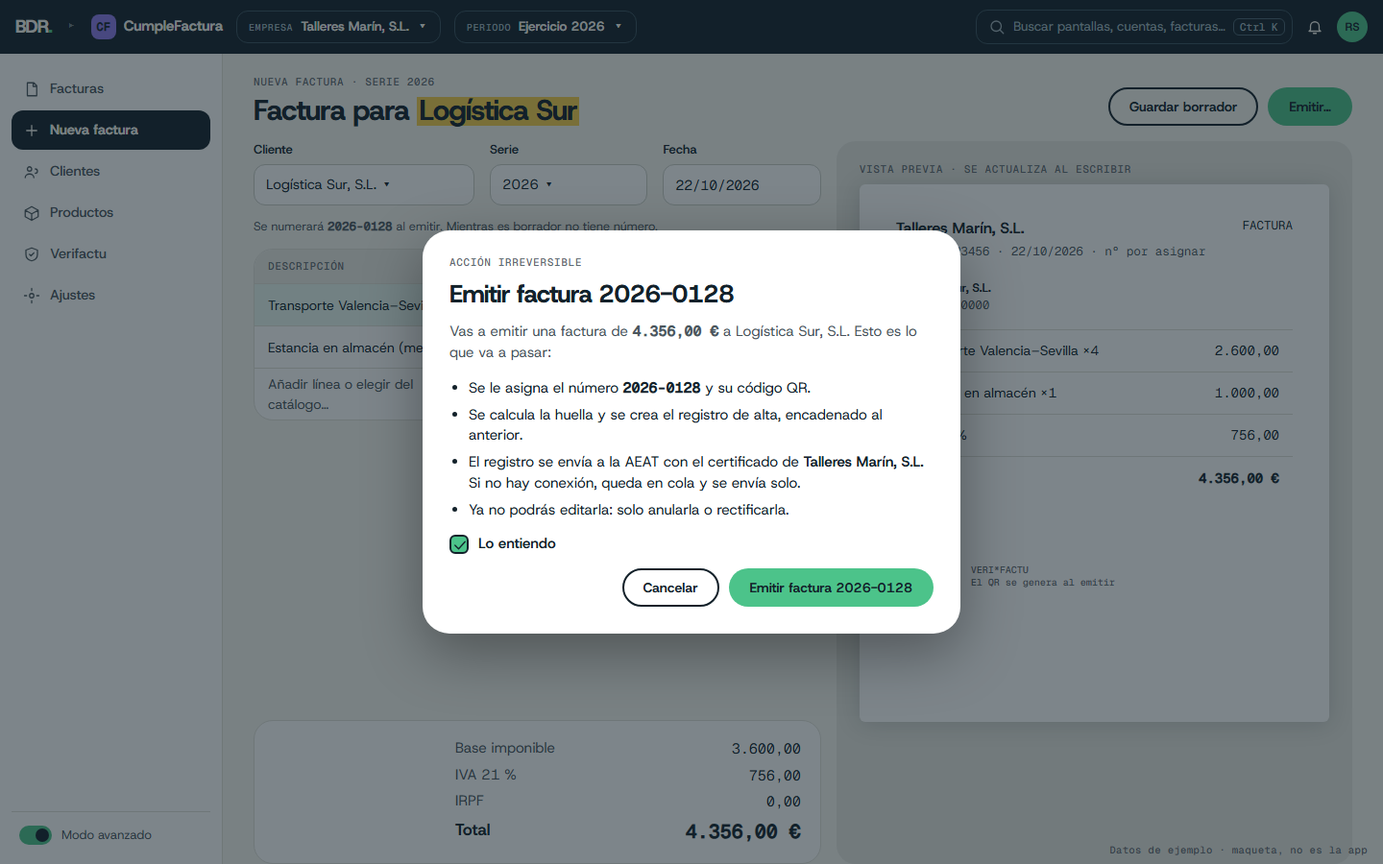
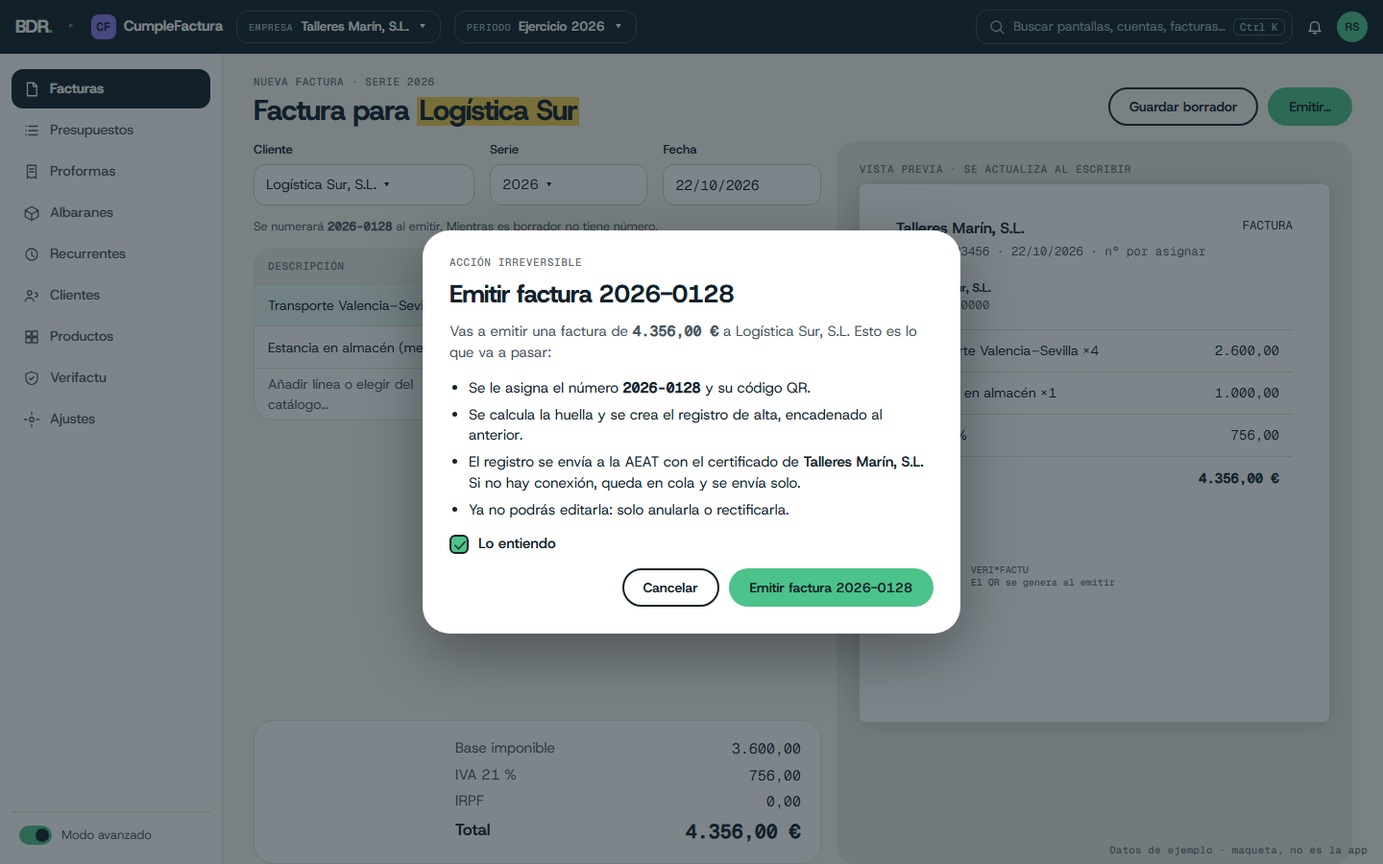
docs: segunda ronda de decisiones (nombres, representación, ahorro, offline y documentos comerciales)

diff --git a/docs/mockups/cumplefactura-6-sin-conexion.html b/docs/mockups/cumplefactura-6-sin-conexion.html
@@ -1,0 +1,27 @@
+<!doctype html><html lang="es" ><head><meta charset="utf-8"><title>CumpleFactura · Emisión sin conexión</title>
+<meta name="viewport" content="width=1440"><link rel="stylesheet" href="_assets/app.css">
+<style>:root{--producto:var(--violeta);--on-producto:var(--pizarra)}</style></head><body>
+<div class="app" style="position:relative">
+<header class="top"><span class="logo">BDR<i>.</i></span><span class="sep">▸</span><span class="appname"><span class="appico">CF</span>CumpleFactura</span>
+<span class="sel"><small>Empresa</small><b>Talleres Marín, S.L.</b> ▾</span><span class="sel"><small>Periodo</small><b>Ejercicio 2026</b> ▾</span>
+<span class="search"><svg class="i" viewBox="0 0 24 24"><path d="M11 4a7 7 0 100 14 7 7 0 000-14z M16 16l5 5"/></svg>Buscar pantallas, cuentas, facturas…<kbd>Ctrl K</kbd></span><svg class="i" viewBox="0 0 24 24"><path d="M6 16V11a6 6 0 0112 0v5l2 2H4z M10 21h4"/></svg><span class="acct">RS</span></header>
+<nav class="side"><div class="nav "><svg class="i" viewBox="0 0 24 24"><path d="M6 3h9l4 4v14H6z M14 3v5h5"/></svg><span>Facturas</span></div><div class="nav "><svg class="i" viewBox="0 0 24 24"><path d="M8 6h12 M8 12h12 M8 18h12 M4 6h.5 M4 12h.5 M4 18h.5"/></svg><span>Presupuestos</span></div><div class="nav "><svg class="i" viewBox="0 0 24 24"><path d="M6 3h12v18l-3-2-3 2-3-2-3 2z M9 8h6 M9 12h6"/></svg><span>Proformas</span></div><div class="nav "><svg class="i" viewBox="0 0 24 24"><path d="M3 8l9-5 9 5v9l-9 5-9-5z M3 8l9 5 9-5 M12 13v9"/></svg><span>Albaranes</span></div><div class="nav "><svg class="i" viewBox="0 0 24 24"><path d="M12 4a8 8 0 100 16 8 8 0 000-16z M12 8v5l3 2"/></svg><span>Recurrentes</span></div><div class="nav "><svg class="i" viewBox="0 0 24 24"><path d="M9 11a3 3 0 100-6 3 3 0 000 6z M3 20c0-3 3-5 6-5s6 2 6 5 M17 8a3 3 0 010 6"/></svg><span>Clientes</span></div><div class="nav "><svg class="i" viewBox="0 0 24 24"><path d="M4 4h7v7H4z M13 4h7v7h-7z M4 13h7v7H4z M13 13h7v7h-7z"/></svg><span>Productos</span></div><div class="nav "><svg class="i" viewBox="0 0 24 24"><path d="M12 3l8 3v6c0 5-4 8-8 9-4-1-8-4-8-9V6z M9 12l2 2 4-4"/></svg><span>Verifactu</span></div><div class="nav on"><svg class="i" viewBox="0 0 24 24"><path d="M12 9a3 3 0 100 6 3 3 0 000-6z M12 2v3 M12 19v3 M2 12h3 M19 12h3"/></svg><span>Ajustes</span></div><div class="gap"></div><div class="mode"><span class="sw on"></span>Modo avanzado</div></nav>
+<main class="main">
+<div class="head"><div><div class="lbl">Ajustes · Emisión sin conexión</div><h1 style="margin-top:8px">Quién factura <span class="hl">sin conexión</span></h1></div>
+<div class="act"><span class="btn s ">Cancelar</span><span class="btn p ">Guardar reglas</span></div></div>
+<div class="callout info"><svg class="i" viewBox="0 0 24 24"><path d="M12 4a8 8 0 100 16 8 8 0 000-16z M12 11v5 M12 8v.5"/></svg><div>Sin conexión solo puede emitir <b>una persona</b>, con una serie propia. Así no se repiten números aunque otras personas trabajen a la vez. El resto puede preparar borradores y emitirlos al volver la conexión.</div></div>
+<div class="grid" style="grid-template-columns:minmax(0,1.1fr) minmax(0,1fr);align-items:start">
+ <div class="card flat"><div style="padding:14px 18px"><h2>Personas</h2></div><table><thead><tr><th>Usuario</th><th>Sin conexión puede</th><th>Estado</th></tr></thead><tbody>
+ <tr><td><b>Ana López</b><br><span class="hint">Portátil de oficina</span></td><td>Emitir en serie <span class="mono">SC-2026</span></td><td><span class="chip ok">Autorizada</span></td></tr>
+ <tr><td><b>Ricardo Saiz</b><br><span class="hint">Escritorio y web</span></td><td>Solo borradores</td><td><span class="chip bo">Sin permiso</span></td></tr>
+ <tr><td><b>Lucía Pérez</b><br><span class="hint">Web</span></td><td>Solo borradores</td><td><span class="chip bo">Sin permiso</span></td></tr></tbody></table></div>
+ <div class="card"><h2 style="margin-bottom:6px">Reglas</h2>
+  <div style="display:flex;gap:12px;padding:11px 0;border-top:1px solid var(--line)"><span style="flex:1">Serie exclusiva sin conexión</span><b class="mono">SC-2026</b></div>
+  <div style="display:flex;gap:12px;padding:11px 0;border-top:1px solid var(--line)"><span style="flex:1">Máximo sin sincronizar</span><b class="mono">72 h · 50 facturas</b></div>
+  <div style="display:flex;gap:12px;padding:11px 0;border-top:1px solid var(--line)"><span style="flex:1">Importe máximo por factura</span><b class="mono">5.000,00 €</b></div>
+  <div style="display:flex;gap:12px;padding:11px 0;border-top:1px solid var(--line)"><span style="flex:1">Rectificativas y anulaciones sin conexión</span><b class="mono">No</b></div>
+  <div style="display:flex;gap:12px;padding:11px 0;border-top:1px solid var(--line)"><span style="flex:1">Facturas recurrentes sin conexión</span><b class="mono">No: quedan pendientes</b></div>
+  <p class="hint" style="margin:12px 0 0">Al volver la conexión: se sincroniza, se envía a la AEAT en orden y el resto del equipo ve las facturas.</p></div>
+</div>
+<div class="callout warn"><svg class="i" viewBox="0 0 24 24"><path d="M12 4a8 8 0 100 16 8 8 0 000-16z M12 11v5 M12 8v.5"/></svg><div><b>Facturas recurrentes.</b> Se generan una sola vez por periodo y cliente, solo con conexión. Si el día toca sin conexión, queda como borrador pendiente; nunca se crean dos.</div></div></main>
+<div class="foot">Datos de ejemplo · maqueta, no es la app</div></div></body></html>

diff --git a/docs/mockups/cumplefactura-1-facturas.html b/docs/mockups/cumplefactura-1-facturas.html
@@ -5,7 +5,7 @@
 <header class="top"><span class="logo">BDR<i>.</i></span><span class="sep">▸</span><span class="appname"><span class="appico">CF</span>CumpleFactura</span>
 <span class="sel"><small>Empresa</small><b>Talleres Marín, S.L.</b> ▾</span><span class="sel"><small>Periodo</small><b>Ejercicio 2026</b> ▾</span>
 <span class="search"><svg class="i" viewBox="0 0 24 24"><path d="M11 4a7 7 0 100 14 7 7 0 000-14z M16 16l5 5"/></svg>Buscar pantallas, cuentas, facturas…<kbd>Ctrl K</kbd></span><svg class="i" viewBox="0 0 24 24"><path d="M6 16V11a6 6 0 0112 0v5l2 2H4z M10 21h4"/></svg><span class="acct">RS</span></header>
-<nav class="side"><div class="nav on"><svg class="i" viewBox="0 0 24 24"><path d="M6 3h9l4 4v14H6z M14 3v5h5"/></svg><span>Facturas</span></div><div class="nav "><svg class="i" viewBox="0 0 24 24"><path d="M12 5v14 M5 12h14"/></svg><span>Nueva factura</span></div><div class="nav "><svg class="i" viewBox="0 0 24 24"><path d="M9 11a3 3 0 100-6 3 3 0 000 6z M3 20c0-3 3-5 6-5s6 2 6 5 M17 8a3 3 0 010 6"/></svg><span>Clientes</span></div><div class="nav "><svg class="i" viewBox="0 0 24 24"><path d="M3 8l9-5 9 5v9l-9 5-9-5z M3 8l9 5 9-5 M12 13v9"/></svg><span>Productos</span></div><div class="nav "><svg class="i" viewBox="0 0 24 24"><path d="M12 3l8 3v6c0 5-4 8-8 9-4-1-8-4-8-9V6z M9 12l2 2 4-4"/></svg><span>Verifactu</span><span class="b">1</span></div><div class="nav "><svg class="i" viewBox="0 0 24 24"><path d="M12 9a3 3 0 100 6 3 3 0 000-6z M12 2v3 M12 19v3 M2 12h3 M19 12h3"/></svg><span>Ajustes</span></div><div class="gap"></div><div class="mode"><span class="sw on"></span>Modo avanzado</div></nav>
+<nav class="side"><div class="nav on"><svg class="i" viewBox="0 0 24 24"><path d="M6 3h9l4 4v14H6z M14 3v5h5"/></svg><span>Facturas</span></div><div class="nav "><svg class="i" viewBox="0 0 24 24"><path d="M8 6h12 M8 12h12 M8 18h12 M4 6h.5 M4 12h.5 M4 18h.5"/></svg><span>Presupuestos</span></div><div class="nav "><svg class="i" viewBox="0 0 24 24"><path d="M6 3h12v18l-3-2-3 2-3-2-3 2z M9 8h6 M9 12h6"/></svg><span>Proformas</span></div><div class="nav "><svg class="i" viewBox="0 0 24 24"><path d="M3 8l9-5 9 5v9l-9 5-9-5z M3 8l9 5 9-5 M12 13v9"/></svg><span>Albaranes</span></div><div class="nav "><svg class="i" viewBox="0 0 24 24"><path d="M12 4a8 8 0 100 16 8 8 0 000-16z M12 8v5l3 2"/></svg><span>Recurrentes</span></div><div class="nav "><svg class="i" viewBox="0 0 24 24"><path d="M9 11a3 3 0 100-6 3 3 0 000 6z M3 20c0-3 3-5 6-5s6 2 6 5 M17 8a3 3 0 010 6"/></svg><span>Clientes</span></div><div class="nav "><svg class="i" viewBox="0 0 24 24"><path d="M4 4h7v7H4z M13 4h7v7h-7z M4 13h7v7H4z M13 13h7v7h-7z"/></svg><span>Productos</span></div><div class="nav "><svg class="i" viewBox="0 0 24 24"><path d="M12 3l8 3v6c0 5-4 8-8 9-4-1-8-4-8-9V6z M9 12l2 2 4-4"/></svg><span>Verifactu</span><span class="b">1</span></div><div class="nav "><svg class="i" viewBox="0 0 24 24"><path d="M12 9a3 3 0 100 6 3 3 0 000-6z M12 2v3 M12 19v3 M2 12h3 M19 12h3"/></svg><span>Ajustes</span></div><div class="gap"></div><div class="mode"><span class="sw on"></span>Modo avanzado</div></nav>
 <main class="main">
 <div class="head"><div><div class="lbl">Facturas · 2026</div><h1 style="margin-top:8px">Tus <span class="hl">facturas</span></h1></div>
 <div class="act"><span class="chip av">Sin conexión · 1 en cola</span><span class="btn s ">Exportar</span><span class="btn p "><svg class="i" viewBox="0 0 24 24"><path d="M12 5v14 M5 12h14"/></svg> Nueva factura</span></div></div>

diff --git a/docs/mockups/cumplefactura-4-verifactu.html b/docs/mockups/cumplefactura-4-verifactu.html
@@ -5,7 +5,7 @@
 <header class="top"><span class="logo">BDR<i>.</i></span><span class="sep">▸</span><span class="appname"><span class="appico">CF</span>CumpleFactura</span>
 <span class="sel"><small>Empresa</small><b>Talleres Marín, S.L.</b> ▾</span><span class="sel"><small>Periodo</small><b>Ejercicio 2026</b> ▾</span>
 <span class="search"><svg class="i" viewBox="0 0 24 24"><path d="M11 4a7 7 0 100 14 7 7 0 000-14z M16 16l5 5"/></svg>Buscar pantallas, cuentas, facturas…<kbd>Ctrl K</kbd></span><svg class="i" viewBox="0 0 24 24"><path d="M6 16V11a6 6 0 0112 0v5l2 2H4z M10 21h4"/></svg><span class="acct">RS</span></header>
-<nav class="side"><div class="nav "><svg class="i" viewBox="0 0 24 24"><path d="M6 3h9l4 4v14H6z M14 3v5h5"/></svg><span>Facturas</span></div><div class="nav "><svg class="i" viewBox="0 0 24 24"><path d="M12 5v14 M5 12h14"/></svg><span>Nueva factura</span></div><div class="nav "><svg class="i" viewBox="0 0 24 24"><path d="M9 11a3 3 0 100-6 3 3 0 000 6z M3 20c0-3 3-5 6-5s6 2 6 5 M17 8a3 3 0 010 6"/></svg><span>Clientes</span></div><div class="nav "><svg class="i" viewBox="0 0 24 24"><path d="M3 8l9-5 9 5v9l-9 5-9-5z M3 8l9 5 9-5 M12 13v9"/></svg><span>Productos</span></div><div class="nav on"><svg class="i" viewBox="0 0 24 24"><path d="M12 3l8 3v6c0 5-4 8-8 9-4-1-8-4-8-9V6z M9 12l2 2 4-4"/></svg><span>Verifactu</span></div><div class="nav "><svg class="i" viewBox="0 0 24 24"><path d="M12 9a3 3 0 100 6 3 3 0 000-6z M12 2v3 M12 19v3 M2 12h3 M19 12h3"/></svg><span>Ajustes</span></div><div class="gap"></div><div class="mode"><span class="sw on"></span>Modo avanzado</div></nav>
+<nav class="side"><div class="nav "><svg class="i" viewBox="0 0 24 24"><path d="M6 3h9l4 4v14H6z M14 3v5h5"/></svg><span>Facturas</span></div><div class="nav "><svg class="i" viewBox="0 0 24 24"><path d="M8 6h12 M8 12h12 M8 18h12 M4 6h.5 M4 12h.5 M4 18h.5"/></svg><span>Presupuestos</span></div><div class="nav "><svg class="i" viewBox="0 0 24 24"><path d="M6 3h12v18l-3-2-3 2-3-2-3 2z M9 8h6 M9 12h6"/></svg><span>Proformas</span></div><div class="nav "><svg class="i" viewBox="0 0 24 24"><path d="M3 8l9-5 9 5v9l-9 5-9-5z M3 8l9 5 9-5 M12 13v9"/></svg><span>Albaranes</span></div><div class="nav "><svg class="i" viewBox="0 0 24 24"><path d="M12 4a8 8 0 100 16 8 8 0 000-16z M12 8v5l3 2"/></svg><span>Recurrentes</span></div><div class="nav "><svg class="i" viewBox="0 0 24 24"><path d="M9 11a3 3 0 100-6 3 3 0 000 6z M3 20c0-3 3-5 6-5s6 2 6 5 M17 8a3 3 0 010 6"/></svg><span>Clientes</span></div><div class="nav "><svg class="i" viewBox="0 0 24 24"><path d="M4 4h7v7H4z M13 4h7v7h-7z M4 13h7v7H4z M13 13h7v7h-7z"/></svg><span>Productos</span></div><div class="nav on"><svg class="i" viewBox="0 0 24 24"><path d="M12 3l8 3v6c0 5-4 8-8 9-4-1-8-4-8-9V6z M9 12l2 2 4-4"/></svg><span>Verifactu</span></div><div class="nav "><svg class="i" viewBox="0 0 24 24"><path d="M12 9a3 3 0 100 6 3 3 0 000-6z M12 2v3 M12 19v3 M2 12h3 M19 12h3"/></svg><span>Ajustes</span></div><div class="gap"></div><div class="mode"><span class="sw on"></span>Modo avanzado</div></nav>
 <main class="main">
 <div class="head"><div><div class="lbl">Verifactu · Talleres Marín, S.L. · modo VERI*FACTU</div><h1 style="margin-top:8px">Estado <span class="hl">fiscal</span></h1></div>
 <div class="act"><span class="btn s ">Comprobar integridad</span><span class="btn d ">Reintentar ahora (1)</span></div></div>

diff --git a/docs/mockups/cumplefactura-5-verifactu-oscuro.html b/docs/mockups/cumplefactura-5-verifactu-oscuro.html
@@ -5,7 +5,7 @@
 <header class="top"><span class="logo">BDR<i>.</i></span><span class="sep">▸</span><span class="appname"><span class="appico">CF</span>CumpleFactura</span>
 <span class="sel"><small>Empresa</small><b>Talleres Marín, S.L.</b> ▾</span><span class="sel"><small>Periodo</small><b>Ejercicio 2026</b> ▾</span>
 <span class="search"><svg class="i" viewBox="0 0 24 24"><path d="M11 4a7 7 0 100 14 7 7 0 000-14z M16 16l5 5"/></svg>Buscar pantallas, cuentas, facturas…<kbd>Ctrl K</kbd></span><svg class="i" viewBox="0 0 24 24"><path d="M6 16V11a6 6 0 0112 0v5l2 2H4z M10 21h4"/></svg><span class="acct">RS</span></header>
-<nav class="side"><div class="nav "><svg class="i" viewBox="0 0 24 24"><path d="M6 3h9l4 4v14H6z M14 3v5h5"/></svg><span>Facturas</span></div><div class="nav "><svg class="i" viewBox="0 0 24 24"><path d="M12 5v14 M5 12h14"/></svg><span>Nueva factura</span></div><div class="nav "><svg class="i" viewBox="0 0 24 24"><path d="M9 11a3 3 0 100-6 3 3 0 000 6z M3 20c0-3 3-5 6-5s6 2 6 5 M17 8a3 3 0 010 6"/></svg><span>Clientes</span></div><div class="nav "><svg class="i" viewBox="0 0 24 24"><path d="M3 8l9-5 9 5v9l-9 5-9-5z M3 8l9 5 9-5 M12 13v9"/></svg><span>Productos</span></div><div class="nav on"><svg class="i" viewBox="0 0 24 24"><path d="M12 3l8 3v6c0 5-4 8-8 9-4-1-8-4-8-9V6z M9 12l2 2 4-4"/></svg><span>Verifactu</span></div><div class="nav "><svg class="i" viewBox="0 0 24 24"><path d="M12 9a3 3 0 100 6 3 3 0 000-6z M12 2v3 M12 19v3 M2 12h3 M19 12h3"/></svg><span>Ajustes</span></div><div class="gap"></div><div class="mode"><span class="sw on"></span>Modo avanzado</div></nav>
+<nav class="side"><div class="nav "><svg class="i" viewBox="0 0 24 24"><path d="M6 3h9l4 4v14H6z M14 3v5h5"/></svg><span>Facturas</span></div><div class="nav "><svg class="i" viewBox="0 0 24 24"><path d="M8 6h12 M8 12h12 M8 18h12 M4 6h.5 M4 12h.5 M4 18h.5"/></svg><span>Presupuestos</span></div><div class="nav "><svg class="i" viewBox="0 0 24 24"><path d="M6 3h12v18l-3-2-3 2-3-2-3 2z M9 8h6 M9 12h6"/></svg><span>Proformas</span></div><div class="nav "><svg class="i" viewBox="0 0 24 24"><path d="M3 8l9-5 9 5v9l-9 5-9-5z M3 8l9 5 9-5 M12 13v9"/></svg><span>Albaranes</span></div><div class="nav "><svg class="i" viewBox="0 0 24 24"><path d="M12 4a8 8 0 100 16 8 8 0 000-16z M12 8v5l3 2"/></svg><span>Recurrentes</span></div><div class="nav "><svg class="i" viewBox="0 0 24 24"><path d="M9 11a3 3 0 100-6 3 3 0 000 6z M3 20c0-3 3-5 6-5s6 2 6 5 M17 8a3 3 0 010 6"/></svg><span>Clientes</span></div><div class="nav "><svg class="i" viewBox="0 0 24 24"><path d="M4 4h7v7H4z M13 4h7v7h-7z M4 13h7v7H4z M13 13h7v7h-7z"/></svg><span>Productos</span></div><div class="nav on"><svg class="i" viewBox="0 0 24 24"><path d="M12 3l8 3v6c0 5-4 8-8 9-4-1-8-4-8-9V6z M9 12l2 2 4-4"/></svg><span>Verifactu</span></div><div class="nav "><svg class="i" viewBox="0 0 24 24"><path d="M12 9a3 3 0 100 6 3 3 0 000-6z M12 2v3 M12 19v3 M2 12h3 M19 12h3"/></svg><span>Ajustes</span></div><div class="gap"></div><div class="mode"><span class="sw on"></span>Modo avanzado</div></nav>
 <main class="main">
 <div class="head"><div><div class="lbl">Verifactu · Talleres Marín, S.L. · modo VERI*FACTU</div><h1 style="margin-top:8px">Estado <span class="hl">fiscal</span></h1></div>
 <div class="act"><span class="btn s ">Comprobar integridad</span><span class="btn d ">Reintentar ahora (1)</span></div></div>

diff --git a/docs/mockups/cumplefactura-2-editor.html b/docs/mockups/cumplefactura-2-editor.html
@@ -5,7 +5,7 @@
 <header class="top"><span class="logo">BDR<i>.</i></span><span class="sep">▸</span><span class="appname"><span class="appico">CF</span>CumpleFactura</span>
 <span class="sel"><small>Empresa</small><b>Talleres Marín, S.L.</b> ▾</span><span class="sel"><small>Periodo</small><b>Ejercicio 2026</b> ▾</span>
 <span class="search"><svg class="i" viewBox="0 0 24 24"><path d="M11 4a7 7 0 100 14 7 7 0 000-14z M16 16l5 5"/></svg>Buscar pantallas, cuentas, facturas…<kbd>Ctrl K</kbd></span><svg class="i" viewBox="0 0 24 24"><path d="M6 16V11a6 6 0 0112 0v5l2 2H4z M10 21h4"/></svg><span class="acct">RS</span></header>
-<nav class="side"><div class="nav "><svg class="i" viewBox="0 0 24 24"><path d="M6 3h9l4 4v14H6z M14 3v5h5"/></svg><span>Facturas</span></div><div class="nav on"><svg class="i" viewBox="0 0 24 24"><path d="M12 5v14 M5 12h14"/></svg><span>Nueva factura</span></div><div class="nav "><svg class="i" viewBox="0 0 24 24"><path d="M9 11a3 3 0 100-6 3 3 0 000 6z M3 20c0-3 3-5 6-5s6 2 6 5 M17 8a3 3 0 010 6"/></svg><span>Clientes</span></div><div class="nav "><svg class="i" viewBox="0 0 24 24"><path d="M3 8l9-5 9 5v9l-9 5-9-5z M3 8l9 5 9-5 M12 13v9"/></svg><span>Productos</span></div><div class="nav "><svg class="i" viewBox="0 0 24 24"><path d="M12 3l8 3v6c0 5-4 8-8 9-4-1-8-4-8-9V6z M9 12l2 2 4-4"/></svg><span>Verifactu</span></div><div class="nav "><svg class="i" viewBox="0 0 24 24"><path d="M12 9a3 3 0 100 6 3 3 0 000-6z M12 2v3 M12 19v3 M2 12h3 M19 12h3"/></svg><span>Ajustes</span></div><div class="gap"></div><div class="mode"><span class="sw on"></span>Modo avanzado</div></nav>
+<nav class="side"><div class="nav on"><svg class="i" viewBox="0 0 24 24"><path d="M6 3h9l4 4v14H6z M14 3v5h5"/></svg><span>Facturas</span></div><div class="nav "><svg class="i" viewBox="0 0 24 24"><path d="M8 6h12 M8 12h12 M8 18h12 M4 6h.5 M4 12h.5 M4 18h.5"/></svg><span>Presupuestos</span></div><div class="nav "><svg class="i" viewBox="0 0 24 24"><path d="M6 3h12v18l-3-2-3 2-3-2-3 2z M9 8h6 M9 12h6"/></svg><span>Proformas</span></div><div class="nav "><svg class="i" viewBox="0 0 24 24"><path d="M3 8l9-5 9 5v9l-9 5-9-5z M3 8l9 5 9-5 M12 13v9"/></svg><span>Albaranes</span></div><div class="nav "><svg class="i" viewBox="0 0 24 24"><path d="M12 4a8 8 0 100 16 8 8 0 000-16z M12 8v5l3 2"/></svg><span>Recurrentes</span></div><div class="nav "><svg class="i" viewBox="0 0 24 24"><path d="M9 11a3 3 0 100-6 3 3 0 000 6z M3 20c0-3 3-5 6-5s6 2 6 5 M17 8a3 3 0 010 6"/></svg><span>Clientes</span></div><div class="nav "><svg class="i" viewBox="0 0 24 24"><path d="M4 4h7v7H4z M13 4h7v7h-7z M4 13h7v7H4z M13 13h7v7h-7z"/></svg><span>Productos</span></div><div class="nav "><svg class="i" viewBox="0 0 24 24"><path d="M12 3l8 3v6c0 5-4 8-8 9-4-1-8-4-8-9V6z M9 12l2 2 4-4"/></svg><span>Verifactu</span></div><div class="nav "><svg class="i" viewBox="0 0 24 24"><path d="M12 9a3 3 0 100 6 3 3 0 000-6z M12 2v3 M12 19v3 M2 12h3 M19 12h3"/></svg><span>Ajustes</span></div><div class="gap"></div><div class="mode"><span class="sw on"></span>Modo avanzado</div></nav>
 <main class="main">
 <div class="head"><div><div class="lbl">Nueva factura · serie 2026</div><h1 style="margin-top:8px">Factura para <span class="hl">Logística Sur</span></h1></div>
 <div class="act"><span class="btn s ">Guardar borrador</span><span class="btn p ">Emitir…</span></div></div>

diff --git a/docs/mockups/cumplefactura-3-emitir.html b/docs/mockups/cumplefactura-3-emitir.html
@@ -5,7 +5,7 @@
 <header class="top"><span class="logo">BDR<i>.</i></span><span class="sep">▸</span><span class="appname"><span class="appico">CF</span>CumpleFactura</span>
 <span class="sel"><small>Empresa</small><b>Talleres Marín, S.L.</b> ▾</span><span class="sel"><small>Periodo</small><b>Ejercicio 2026</b> ▾</span>
 <span class="search"><svg class="i" viewBox="0 0 24 24"><path d="M11 4a7 7 0 100 14 7 7 0 000-14z M16 16l5 5"/></svg>Buscar pantallas, cuentas, facturas…<kbd>Ctrl K</kbd></span><svg class="i" viewBox="0 0 24 24"><path d="M6 16V11a6 6 0 0112 0v5l2 2H4z M10 21h4"/></svg><span class="acct">RS</span></header>
-<nav class="side"><div class="nav "><svg class="i" viewBox="0 0 24 24"><path d="M6 3h9l4 4v14H6z M14 3v5h5"/></svg><span>Facturas</span></div><div class="nav on"><svg class="i" viewBox="0 0 24 24"><path d="M12 5v14 M5 12h14"/></svg><span>Nueva factura</span></div><div class="nav "><svg class="i" viewBox="0 0 24 24"><path d="M9 11a3 3 0 100-6 3 3 0 000 6z M3 20c0-3 3-5 6-5s6 2 6 5 M17 8a3 3 0 010 6"/></svg><span>Clientes</span></div><div class="nav "><svg class="i" viewBox="0 0 24 24"><path d="M3 8l9-5 9 5v9l-9 5-9-5z M3 8l9 5 9-5 M12 13v9"/></svg><span>Productos</span></div><div class="nav "><svg class="i" viewBox="0 0 24 24"><path d="M12 3l8 3v6c0 5-4 8-8 9-4-1-8-4-8-9V6z M9 12l2 2 4-4"/></svg><span>Verifactu</span></div><div class="nav "><svg class="i" viewBox="0 0 24 24"><path d="M12 9a3 3 0 100 6 3 3 0 000-6z M12 2v3 M12 19v3 M2 12h3 M19 12h3"/></svg><span>Ajustes</span></div><div class="gap"></div><div class="mode"><span class="sw on"></span>Modo avanzado</div></nav>
+<nav class="side"><div class="nav on"><svg class="i" viewBox="0 0 24 24"><path d="M6 3h9l4 4v14H6z M14 3v5h5"/></svg><span>Facturas</span></div><div class="nav "><svg class="i" viewBox="0 0 24 24"><path d="M8 6h12 M8 12h12 M8 18h12 M4 6h.5 M4 12h.5 M4 18h.5"/></svg><span>Presupuestos</span></div><div class="nav "><svg class="i" viewBox="0 0 24 24"><path d="M6 3h12v18l-3-2-3 2-3-2-3 2z M9 8h6 M9 12h6"/></svg><span>Proformas</span></div><div class="nav "><svg class="i" viewBox="0 0 24 24"><path d="M3 8l9-5 9 5v9l-9 5-9-5z M3 8l9 5 9-5 M12 13v9"/></svg><span>Albaranes</span></div><div class="nav "><svg class="i" viewBox="0 0 24 24"><path d="M12 4a8 8 0 100 16 8 8 0 000-16z M12 8v5l3 2"/></svg><span>Recurrentes</span></div><div class="nav "><svg class="i" viewBox="0 0 24 24"><path d="M9 11a3 3 0 100-6 3 3 0 000 6z M3 20c0-3 3-5 6-5s6 2 6 5 M17 8a3 3 0 010 6"/></svg><span>Clientes</span></div><div class="nav "><svg class="i" viewBox="0 0 24 24"><path d="M4 4h7v7H4z M13 4h7v7h-7z M4 13h7v7H4z M13 13h7v7h-7z"/></svg><span>Productos</span></div><div class="nav "><svg class="i" viewBox="0 0 24 24"><path d="M12 3l8 3v6c0 5-4 8-8 9-4-1-8-4-8-9V6z M9 12l2 2 4-4"/></svg><span>Verifactu</span></div><div class="nav "><svg class="i" viewBox="0 0 24 24"><path d="M12 9a3 3 0 100 6 3 3 0 000-6z M12 2v3 M12 19v3 M2 12h3 M19 12h3"/></svg><span>Ajustes</span></div><div class="gap"></div><div class="mode"><span class="sw on"></span>Modo avanzado</div></nav>
 <main class="main">
 <div class="head"><div><div class="lbl">Nueva factura · serie 2026</div><h1 style="margin-top:8px">Factura para <span class="hl">Logística Sur</span></h1></div>
 <div class="act"><span class="btn s ">Guardar borrador</span><span class="btn p ">Emitir…</span></div></div>

diff --git a/docs/UX_UI.md b/docs/UX_UI.md
@@ -40,7 +40,9 @@ Hoy: verdes `#1d5f4a`, Inter, solo modo claro → Menta + Pizarra, Host Grotesk 
 
 ## Arquitectura de información
 
-Barra lateral: **Facturas · Nueva factura · Clientes · Productos · Verifactu · Ajustes**. Barra superior común de la suite (empresa y periodo siempre visibles); indicador de conexión con la AEAT y registros en cola.
+Barra lateral: **Facturas · Presupuestos · Proformas · Albaranes · Recurrentes · Clientes · Productos · Verifactu · Ajustes**. «Nueva factura» pasa a botón en la cabecera (`N`). Barra superior común de la suite (empresa y periodo siempre visibles); indicador de conexión con la AEAT y registros en cola.
+
+Documentos comerciales y su flujo: **Presupuesto → Proforma → Albarán → Factura** (cada paso se crea desde el anterior con un clic, conservando líneas y enlace). Solo la factura genera registro VERI*FACTU; presupuestos, proformas y albaranes llevan series propias sin valor fiscal y lo dicen en el PDF. Varios albaranes del mes pueden agruparse en una factura recapitulativa. **Nota de crédito** = factura rectificativa (por ejemplo, un abono por diferencias negativas); en la interfaz se llama «Rectificativa (abono)» para no confundir.
 - Primer arranque: asistente de 4 pasos (empresa, fiscalidad, primera serie, certificado y carpeta de exportación).
 - Ventana mínima 1024×700; el menú se pliega por debajo de 1200 px; diálogos nativos para abrir/guardar.
 
@@ -62,7 +64,11 @@ Cliente, serie, fecha; líneas con cantidad, precio, IVA, IRPF; totales en mono;
 ![](mockups/cumplefactura-4-verifactu.png) ![](mockups/cumplefactura-5-verifactu-oscuro.png)
 Aviso de conexión, pasos de una factura con su CSV de respuesta, cadena de registros con estado de envío e integridad, conexión y certificado (caducidad, entorno pruebas/producción). SII, TicketBAI y FACe: «No disponible todavía».
 
-### 5. Rectificativa (sin maqueta)
+### 5. Emisión sin conexión
+![](mockups/cumplefactura-6-sin-conexion.png)
+Ajustes › Emisión sin conexión: una sola persona autorizada a emitir sin conexión, con serie exclusiva y límites (horas y facturas sin sincronizar, importe máximo); sin rectificativas ni anulaciones sin conexión; recurrentes nunca sin conexión.
+
+### 6. Rectificativa (sin maqueta)
 Asistente: qué ha pasado → propuesta de causa R1–R5 y método (sustitución o diferencias) como **sugerencia** → vista previa → confirmación.
 
 ## Microcopy
@@ -85,7 +91,7 @@ WCAG 2.2 AA claro y oscuro; los pasos Verifactu llevan texto además de punto de
 ## Decisiones (2026-10-26, respuestas de Ricardo)
 
 - **Firma y envío desde el primer momento** (modo VERI*FACTU por defecto; NO VERI*FACTU con firma como opción).
-- **Online y offline**: escritorio funciona sin conexión con cola de envío; la web tolera caídas de la AEAT y cortes breves (ver *Por definir* 1).
+- **Online y offline**: escritorio funciona sin conexión con cola de envío; la web tolera caídas de la AEAT y cortes breves (reglas abajo, en la segunda ronda).
 - Tema según el sistema, con ajuste del usuario. Densidad ajustable.
 - Marca BDR con Violeta; estado fiscal de cuatro pasos siempre visible.
 - Stack: se mantiene Vite + React (corre igual en Tauri y en la web); se comparte la capa de UI con ContaPro y la app de modelos mediante el paquete `@bdr/ui` (ver `IMPLEMENTACION_UX_UI.md`).
@@ -93,9 +99,16 @@ WCAG 2.2 AA claro y oscuro; los pasos Verifactu llevan texto además de punto de
 - Las facturas emitidas entran en ContaPro con su chip fiscal de origen.
 - Login: Cuenta BDR común, opcional en Tauri.
 
+### Decisiones de la segunda ronda (2026-10-26)
+
+- **Certificado en la web**: BDR intentará darse de alta como **colaborador social**; si no, cada empresa apodera a BDR. El servidor de BDR remite con su certificado (custodiado en KMS/HSM). En escritorio, el usuario puede usar su propio certificado.
+- **Offline sin números duplicados**: solo una persona autorizada por empresa emite sin conexión, en una **serie exclusiva** (p. ej. `SC-2026`) y con límites configurables (72 h / 50 facturas sin sincronizar, importe máximo, sin rectificativas ni anulaciones). El resto prepara borradores. Al volver la conexión se sincroniza y se envía en orden.
+- **Recurrentes**: las genera el servidor, una vez por periodo y cliente (clave de idempotencia `cliente + plantilla + periodo`), solo con conexión. Si toca sin conexión, quedan como borrador pendiente.
+- **Documentos comerciales**: presupuestos, proformas, albaranes (con factura recapitulativa) y notas de crédito como rectificativas.
+
 ## Por definir
 
-1. **Certificado en la versión web.** El navegador no puede llamar a la AEAT con el certificado del cliente; el envío lo hace el servidor de BDR. Opciones: (a) BDR actúa como representante/apoderado o colaborador social con su certificado; (b) el cliente sube su certificado a una caja fuerte (KMS/HSM). Requiere decisión legal y de seguridad.
-2. **Offline en la web**: ¿PWA con cola local (IndexedDB) o solo escritorio offline? Si varias personas facturan sin conexión a la vez hay riesgo de números duplicados: hace falta serie por dispositivo o rangos reservados.
-3. ¿SII, TicketBAI y FACe se muestran como futuros o se ocultan?
-4. ¿Primer arranque de 4 pasos o importación desde ContaPro?
+1. ¿SII, TicketBAI y FACe se muestran como futuros o se ocultan?
+2. ¿Primer arranque de 4 pasos o importación desde ContaPro?
+3. Valores por defecto de los límites sin conexión (los de la maqueta son una propuesta).
+4. Nombre del producto (familia de nombres en `aeat-modelo200/docs/UX_UI.md`).

diff --git a/docs/IMPLEMENTACION_UX_UI.md b/docs/IMPLEMENTACION_UX_UI.md
@@ -23,7 +23,7 @@ Guía para la sesión que implemente el rediseño. Diseño: `docs/UX_UI.md`. Maq
 | Tarea | Dónde |
 |---|---|
 | Estructura `src/features/{invoices,customers,products,verifactu,settings,onboarding}` + `src/shared/` (tipos, cliente Tauri) | hoy todo en `src/App.tsx` (~2.300 líneas) |
-| Router (p. ej. `react-router`) con las 6 áreas de `UX_UI.md` | `src/main.tsx` |
+| Router (p. ej. `react-router`) con las 9 áreas de `UX_UI.md` (las de documentos comerciales pueden quedar vacías hasta la fase 4) | `src/main.tsx` |
 | `@bdr/ui/tokens.css` + fuentes; retirar verdes `#1d5f4a` e Inter de `src/styles.css` | `src/styles.css` |
 | `AppShell` con empresa/periodo e indicador de conexión AEAT y cola | shell |
 | Ajustes: tema y densidad persistidos en SQLite (escritorio) / preferencias de cuenta (web) | `features/settings` |
@@ -50,10 +50,22 @@ Guía para la sesión que implemente el rediseño. Diseño: `docs/UX_UI.md`. Maq
 | Modo NO VERI*FACTU: firma de registros (XAdES) y sin envío | Detrás de un ajuste, con aviso claro |
 | Tests: sin conexión, caída a mitad de lote, respuesta con errores, rechazo, reenvío idempotente | `tests/regulatory/` |
 
-## Fase 4 — Versión web
+## Fase 4 — Documentos comerciales y recurrentes
 
-- Misma SPA en Vercel + Supabase. **El navegador no puede llamar a la AEAT con el certificado del cliente**: el envío lo hace un backend de BDR (decisión pendiente: BDR como representante/colaborador social o certificado del cliente en KMS/HSM; ver `UX_UI.md` › Por definir).
-- Offline en la web: PWA con cola local (IndexedDB) para cortes breves; para varias personas sin conexión, serie por dispositivo o rangos reservados. Decidir antes de implementar.
+| Tarea | Notas |
+|---|---|
+| Tipos `quote` (presupuesto), `proforma`, `delivery_note` (albarán) con series propias y estados (borrador, enviado, aceptado/rechazado, convertido) | No generan registro VERI*FACTU; el PDF dice «Documento sin valor fiscal» salvo el albarán, que dice «Albarán» |
+| Conversión con un clic: presupuesto → proforma → albarán → factura, guardando el enlace entre documentos | La factura copia líneas; el número fiscal se asigna al emitir |
+| Factura recapitulativa desde varios albaranes del mismo cliente y mes | Selector de albaranes pendientes de facturar |
+| Rectificativa (abono) = nota de crédito; asistente R1–R5 existente | Etiqueta «Rectificativa (abono)» |
+| Recurrentes: plantilla + periodicidad; generación **solo en servidor y con conexión**, idempotente por `cliente + plantilla + periodo`; si falla o no hay conexión, borrador pendiente con aviso | Tests: doble ejecución del programador no crea dos facturas |
+
+## Fase 5 — Versión web y emisión sin conexión
+
+- Misma SPA en Vercel + Supabase. El navegador no puede llamar a la AEAT con certificado del cliente: remite el backend de BDR **como colaborador social (objetivo) o con apoderamiento de cada empresa (alternativa)**, con el certificado de BDR en KMS/HSM. Registrar el apoderamiento/autorización por empresa y mostrarlo en Verifactu › Conexión y certificado.
+- **Emisión sin conexión** (maqueta 6): permiso `offline_issuer` asignable a una sola persona por empresa; serie exclusiva; límites (horas y nº de facturas sin sincronizar, importe máximo); sin rectificativas, anulaciones ni recurrentes sin conexión. Los demás usuarios sin conexión solo crean borradores.
+- Cola local: SQLite en escritorio; IndexedDB (PWA) en web. Al reconectar: subir facturas, validar que la serie exclusiva no tiene huecos ni duplicados, remitir en orden de la cadena.
+- Tests: dos usuarios sin conexión a la vez (solo uno puede emitir), límite superado (bloquea emitir y lo explica), reconexión con cola larga, caducidad del permiso.
 
 ## Prompt sugerido para la sesión de implementación
 
